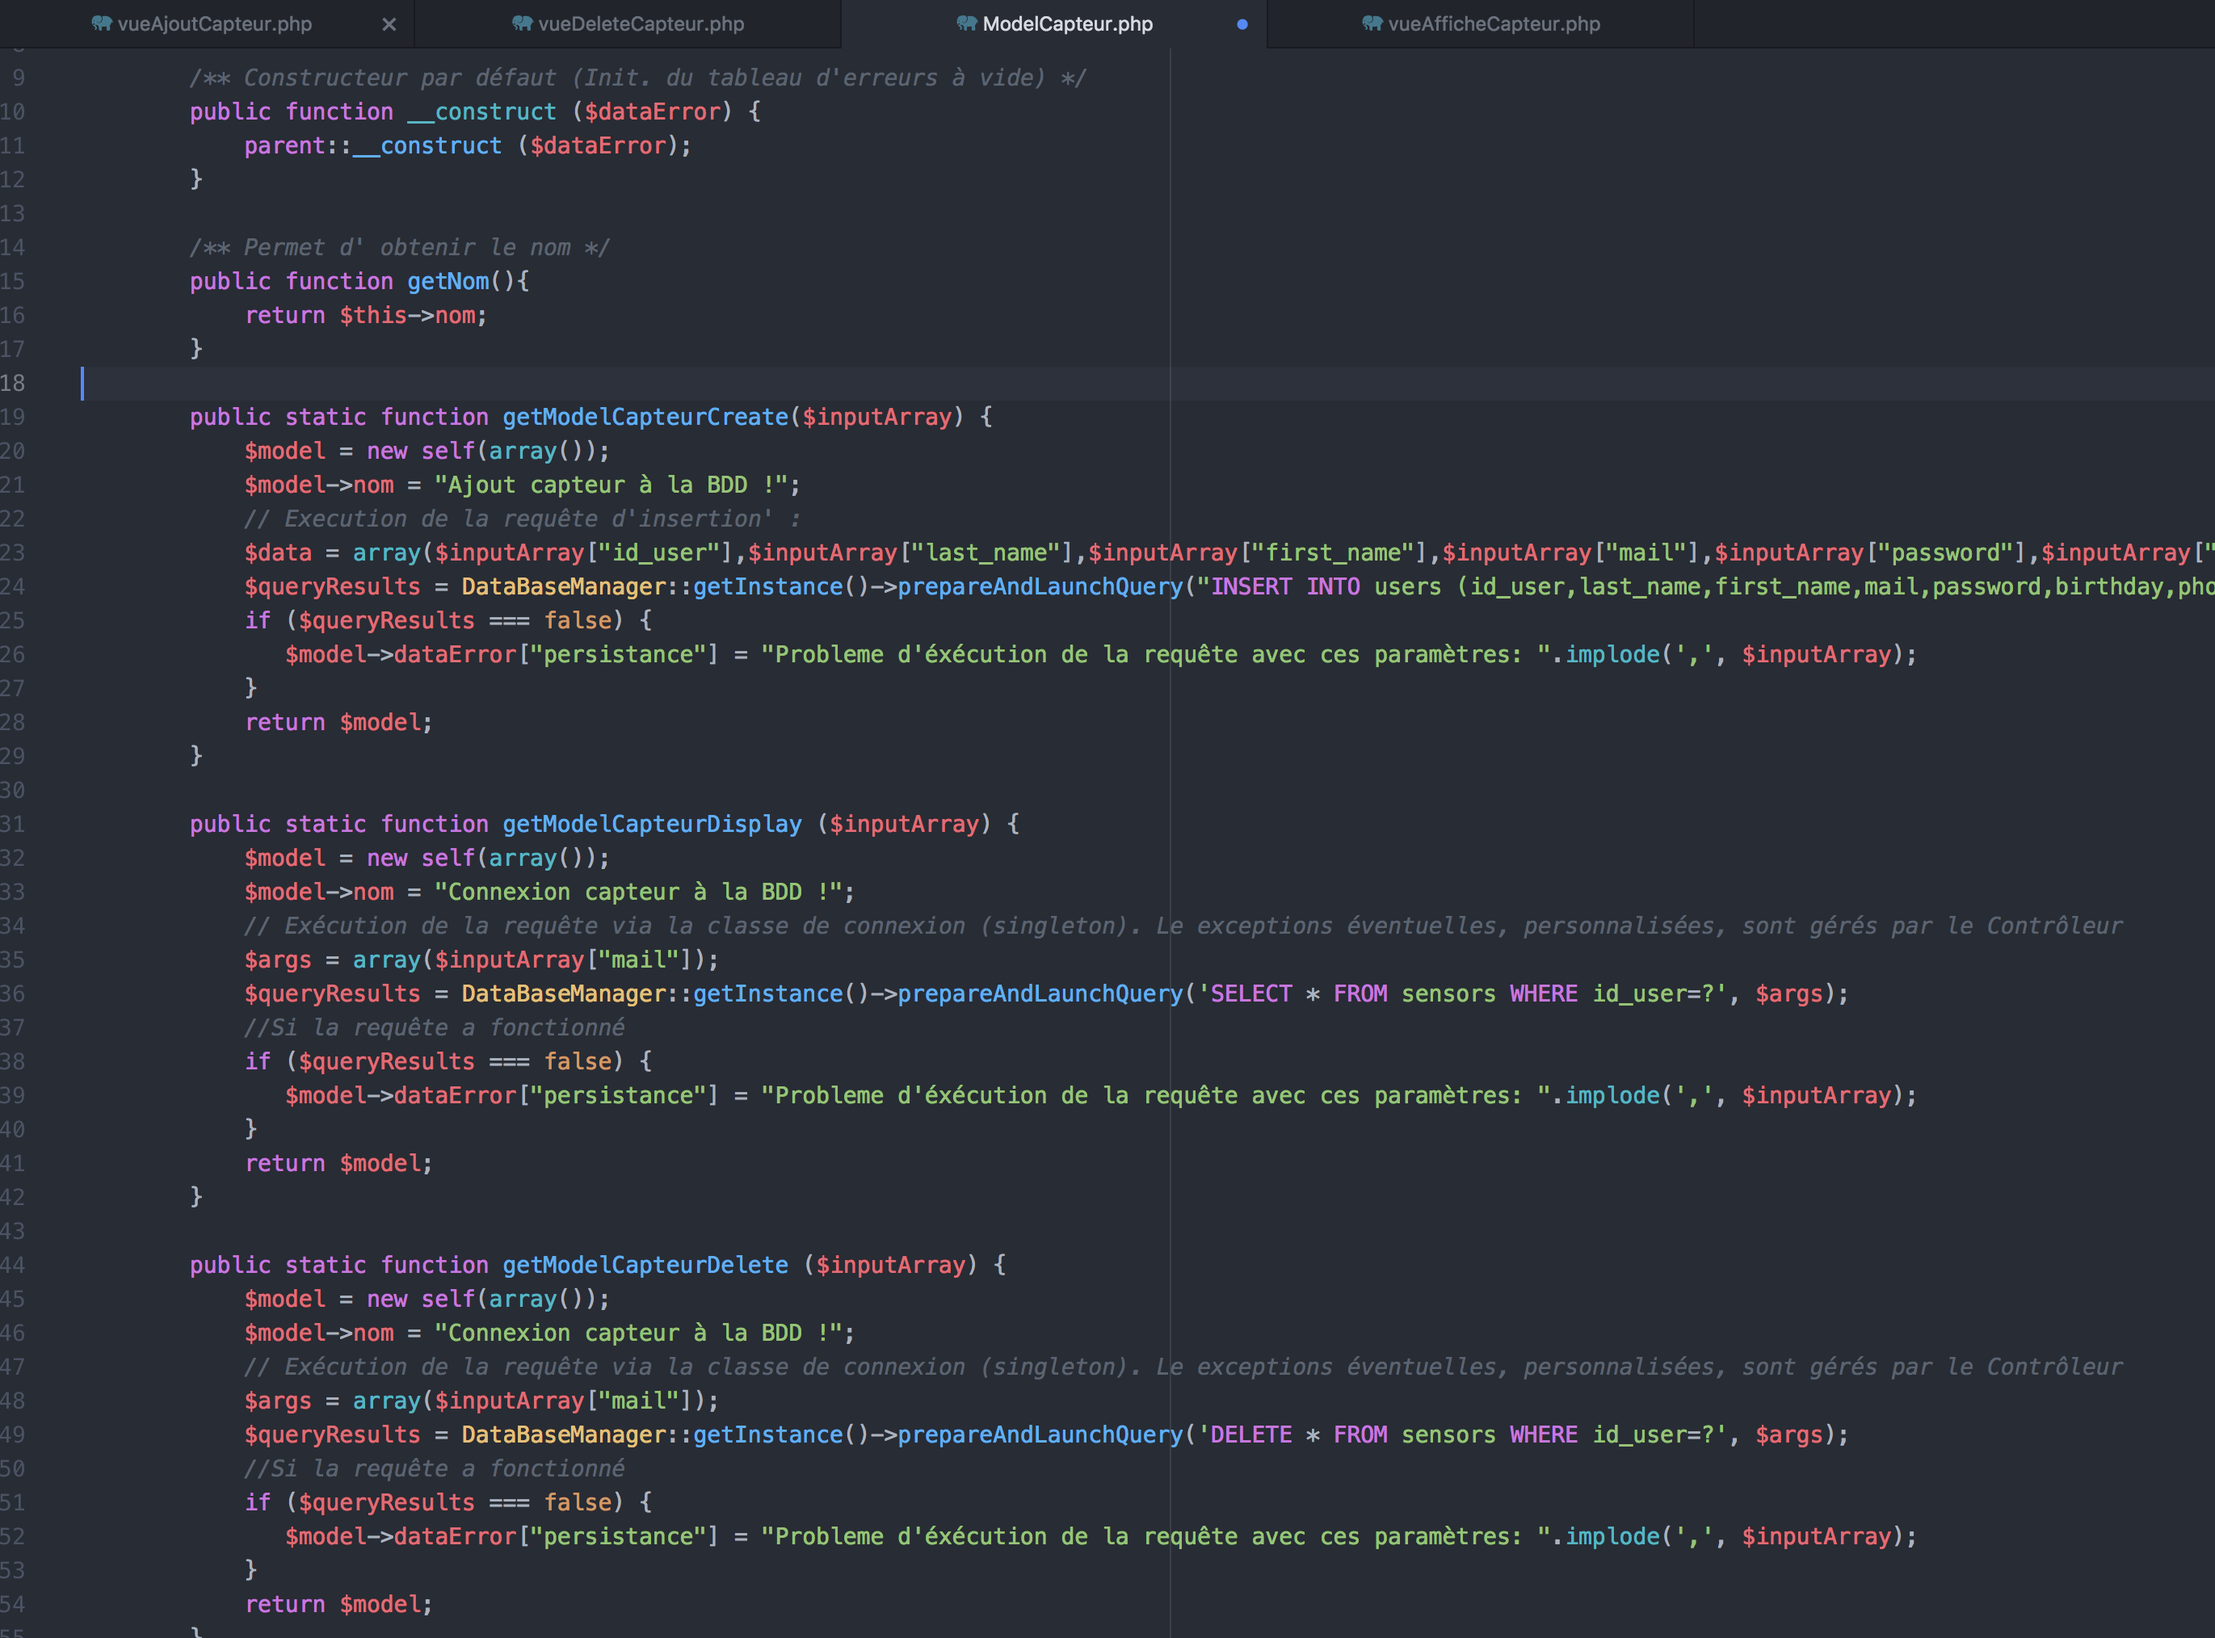
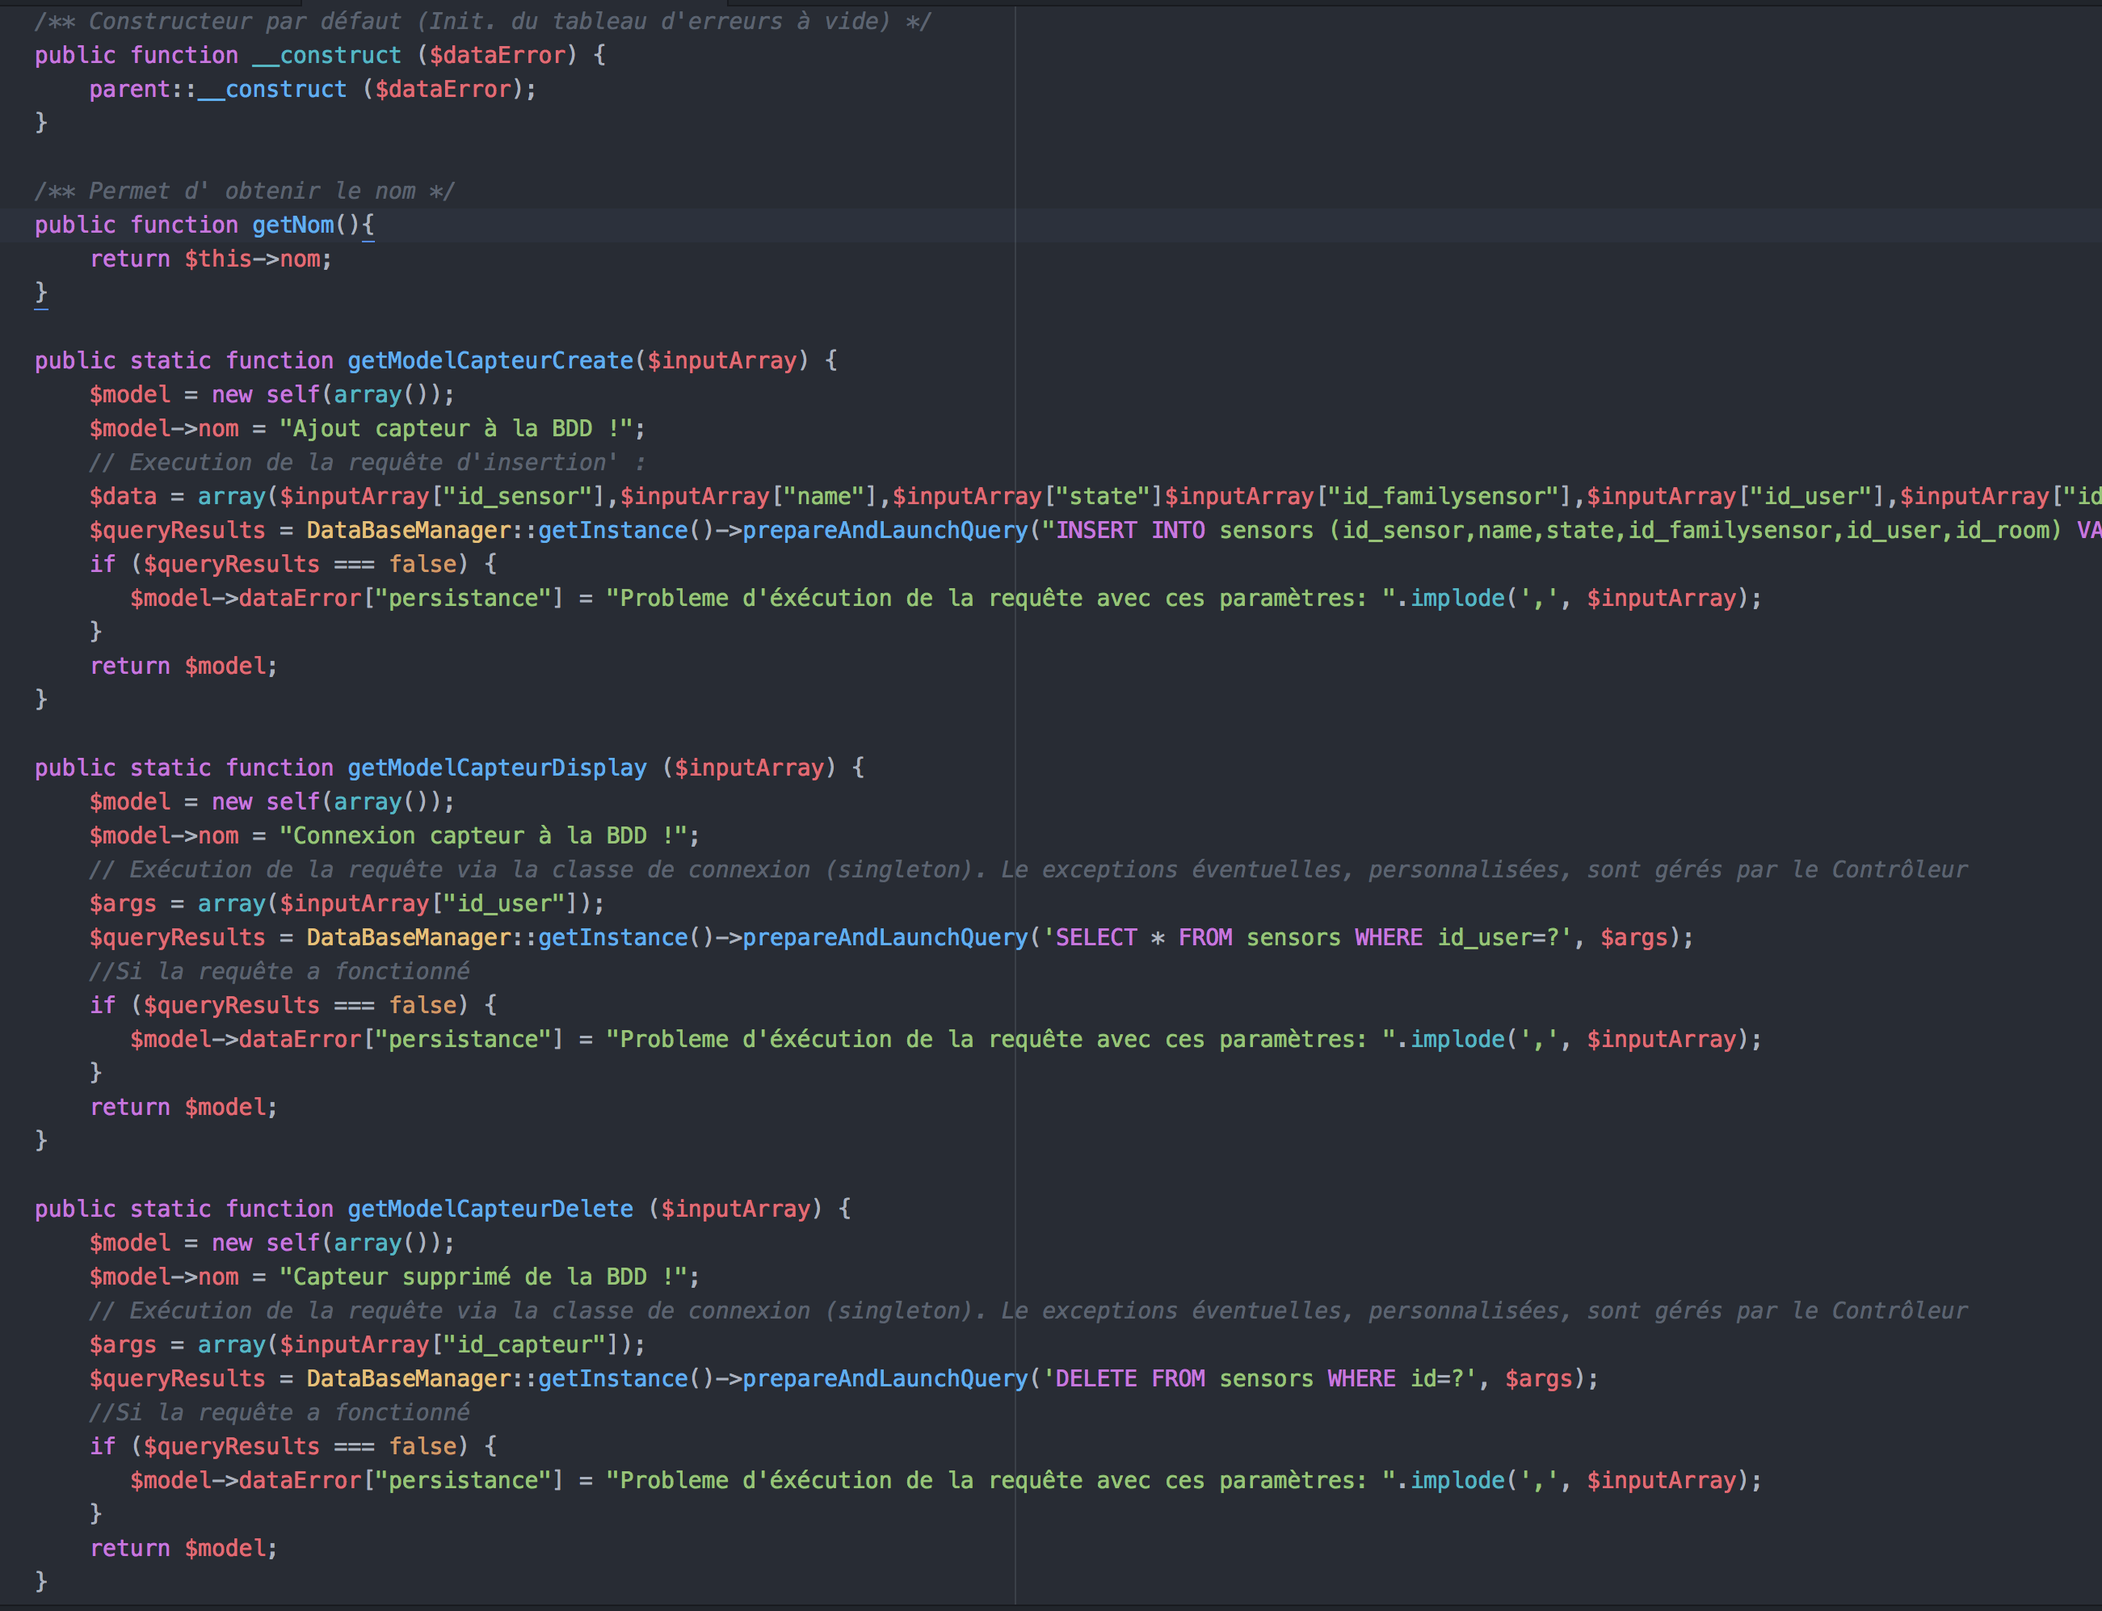
iii

diff --git a/mvc/Modeles/ModelCapteur.php b/mvc/Modeles/ModelCapteur.php
@@ -20,8 +20,8 @@
 		    $model = new self(array());
 			$model->nom = "Ajout capteur à la BDD !";
 			// Execution de la requête d'insertion' :
-			$data = array($inputArray["id_user"],$inputArray["last_name"],$inputArray["first_name"],$inputArray["mail"],$inputArray["password"],$inputArray["birthday"],$inputArray["phone_number"]);
-			$queryResults = DataBaseManager::getInstance()->prepareAndLaunchQuery("INSERT INTO users (id_user,last_name,first_name,mail,password,birthday,phone_number) VALUES (?,?,?,?,?,?,?)",$data);
+			$data = array($inputArray["id_sensor"],$inputArray["name"],$inputArray["state"]$inputArray["id_familysensor"],$inputArray["id_user"],$inputArray["id_room"]);
+			$queryResults = DataBaseManager::getInstance()->prepareAndLaunchQuery("INSERT INTO sensors (id_sensor,name,state,id_familysensor,id_user,id_room) VALUES (?,?,?,?,?,?)",$data);
 			if ($queryResults === false) {
 			   $model->dataError["persistance"] = "Probleme d'éxécution de la requête avec ces paramètres: ".implode(',', $inputArray);
 			}
@@ -32,7 +32,7 @@
 			$model = new self(array());
 			$model->nom = "Connexion capteur à la BDD !";
 			// Exécution de la requête via la classe de connexion (singleton). Le exceptions éventuelles, personnalisées, sont gérés par le Contrôleur
-	        $args = array($inputArray["mail"]);
+	        $args = array($inputArray["id_user"]);
 	        $queryResults = DataBaseManager::getInstance()->prepareAndLaunchQuery('SELECT * FROM sensors WHERE id_user=?', $args);
 	        //Si la requête a fonctionné
 			if ($queryResults === false) {
@@ -43,10 +43,10 @@
 
 	    public static function getModelCapteurDelete ($inputArray) {
 			$model = new self(array());
-			$model->nom = "Connexion capteur à la BDD !";
+			$model->nom = "Capteur supprimé de la BDD !";
 			// Exécution de la requête via la classe de connexion (singleton). Le exceptions éventuelles, personnalisées, sont gérés par le Contrôleur
-	        $args = array($inputArray["mail"]);
-	        $queryResults = DataBaseManager::getInstance()->prepareAndLaunchQuery('DELETE * FROM sensors WHERE id_user=?', $args);
+	        $args = array($inputArray["id_capteur"]);
+	        $queryResults = DataBaseManager::getInstance()->prepareAndLaunchQuery('DELETE FROM sensors WHERE id=?', $args);
 	        //Si la requête a fonctionné
 			if ($queryResults === false) {
 			   $model->dataError["persistance"] = "Probleme d'éxécution de la requête avec ces paramètres: ".implode(',', $inputArray);
